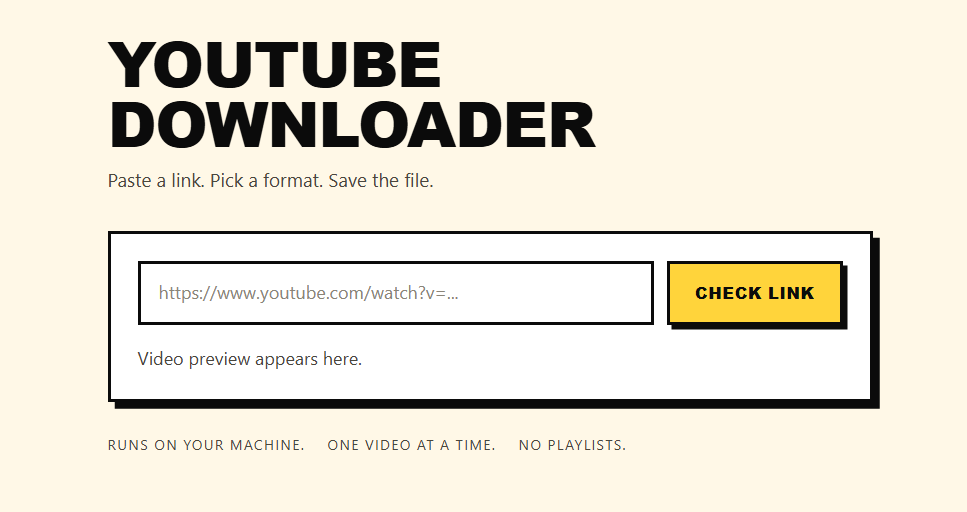
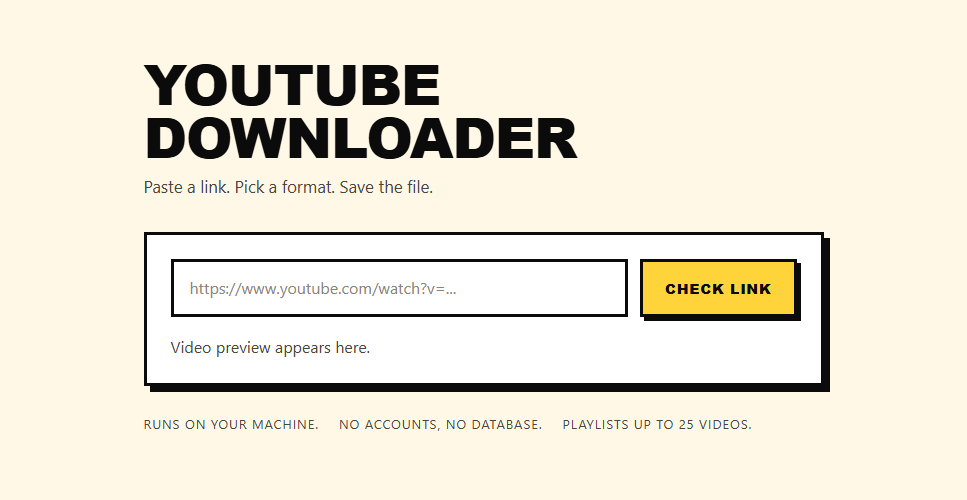
docs: prepare the v1.0.0 release
Bump the version, add the MIT license and repository links, and replace the outdated start-screen screenshot, which still claimed there were no playlists. Add a real playlist-retry screenshot and a CI badge.

The footer said 'one video or playlist at a time' while the pool runs two jobs by default; describe the local, database-free setup instead.

Changed region(s): [[0.0931, 0.45, 0.9307, 0.81], [0.0931, 0.06, 0.6205, 0.39], [0.0931, 0.84, 0.7756, 0.9]]

diff --git a/src/youtube_downloader/templates/index.html b/src/youtube_downloader/templates/index.html
@@ -45,7 +45,7 @@
 
       <footer class="notes">
         <span>Runs on your machine.</span>
-        <span>One video or playlist at a time.</span>
+        <span>No accounts, no database.</span>
         <span>Playlists up to 25 videos.</span>
       </footer>
     </main>

diff --git a/README.md b/README.md
@@ -1,6 +1,10 @@
 # YouTube Downloader
 
-A local web app that turns a YouTube link — a video or a playlist — into files you can actually play: pick a resolution or an MP3 bitrate, watch the progress bar, save the result. One user, one download at a time, no accounts, no database.
+[![CI](https://github.com/Arbi04/youtube-downloader/actions/workflows/ci.yml/badge.svg)](https://github.com/Arbi04/youtube-downloader/actions/workflows/ci.yml)
+
+A local web app that turns a YouTube link — a video or a playlist — into files you can actually play: pick a resolution or an MP3 bitrate, watch the progress bar, save the result. A single local user, no accounts, no database.
+
+**Status:** v1.0.0. Single videos, playlists up to 25 items, in-place retry of failed items, and one ZIP per playlist. Local-only by design.
 
 <p align="center">
   <img
@@ -86,6 +90,17 @@ and duration for each — with the same preset buttons.
 A 25-item video playlist can hold roughly 1 GB of temp files before the archive is
 built, so expect the disk to fill and clear as it runs.
 
+<p align="center">
+  <img
+    src="docs/playlist-retry.png"
+    alt="A finished 11-video playlist showing 10 of 11 saved, item 04 failed with an HTTP 403 explanation, and buttons to save the 10-file archive or retry the one failed item"
+    width="400"
+  />
+</p>
+
+A finished playlist keeps every item and its original number. One item failed here;
+**Retry 1 failed item** downloads only that video and rebuilds the same archive.
+
 ## Configuration
 
 All settings are environment variables, read once at startup.
@@ -142,7 +157,7 @@ Install Node.js (or Deno) and restart; the app detects it automatically.
 uv run pytest -q
 ```
 
-The suite is offline: `yt-dlp` is replaced by a fake behind the `Downloader` protocol, jobs run through a manual executor, and time is injected. No network, no sleeps. What the tests *cannot* prove is that a real download works — that stays a manual smoke check, because it depends on YouTube.
+The suite is offline: `yt-dlp` is replaced by a fake behind the `Downloader` protocol, jobs run through a manual executor, and time is injected. No network, no sleeps. CI runs the same command on Linux and Windows for every push and pull request. What the tests *cannot* prove is that a real download works — that stays a manual smoke check, because it depends on YouTube.
 
 ## Architecture
 
@@ -162,6 +177,10 @@ Three decisions are worth knowing before reading the code:
 - **`services/downloader.py` is the only yt-dlp import.** Everything else talks to the `Downloader` protocol. That seam is what keeps the suite offline and what would make swapping engines a local change.
 
 Vocabulary lives in [`GLOSSARY.md`](GLOSSARY.md): **Preview**, **Preset**, **Job**, **Batch**, **Playlist**.
+
+## License
+
+MIT — see [`LICENSE`](LICENSE).
 
 ## Legal
 
